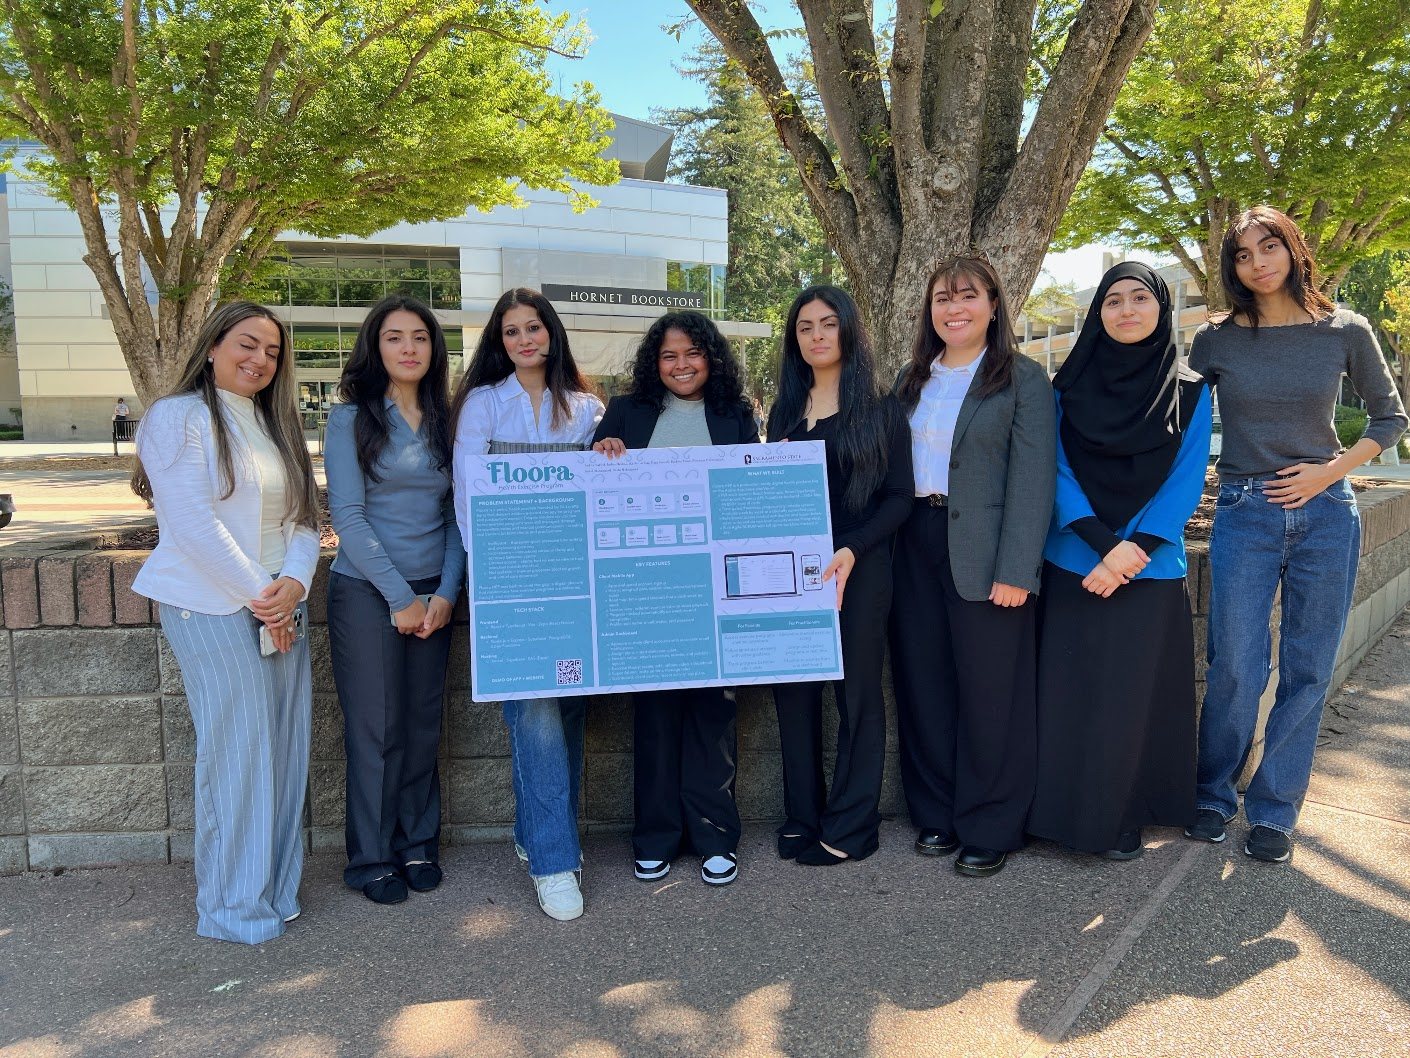
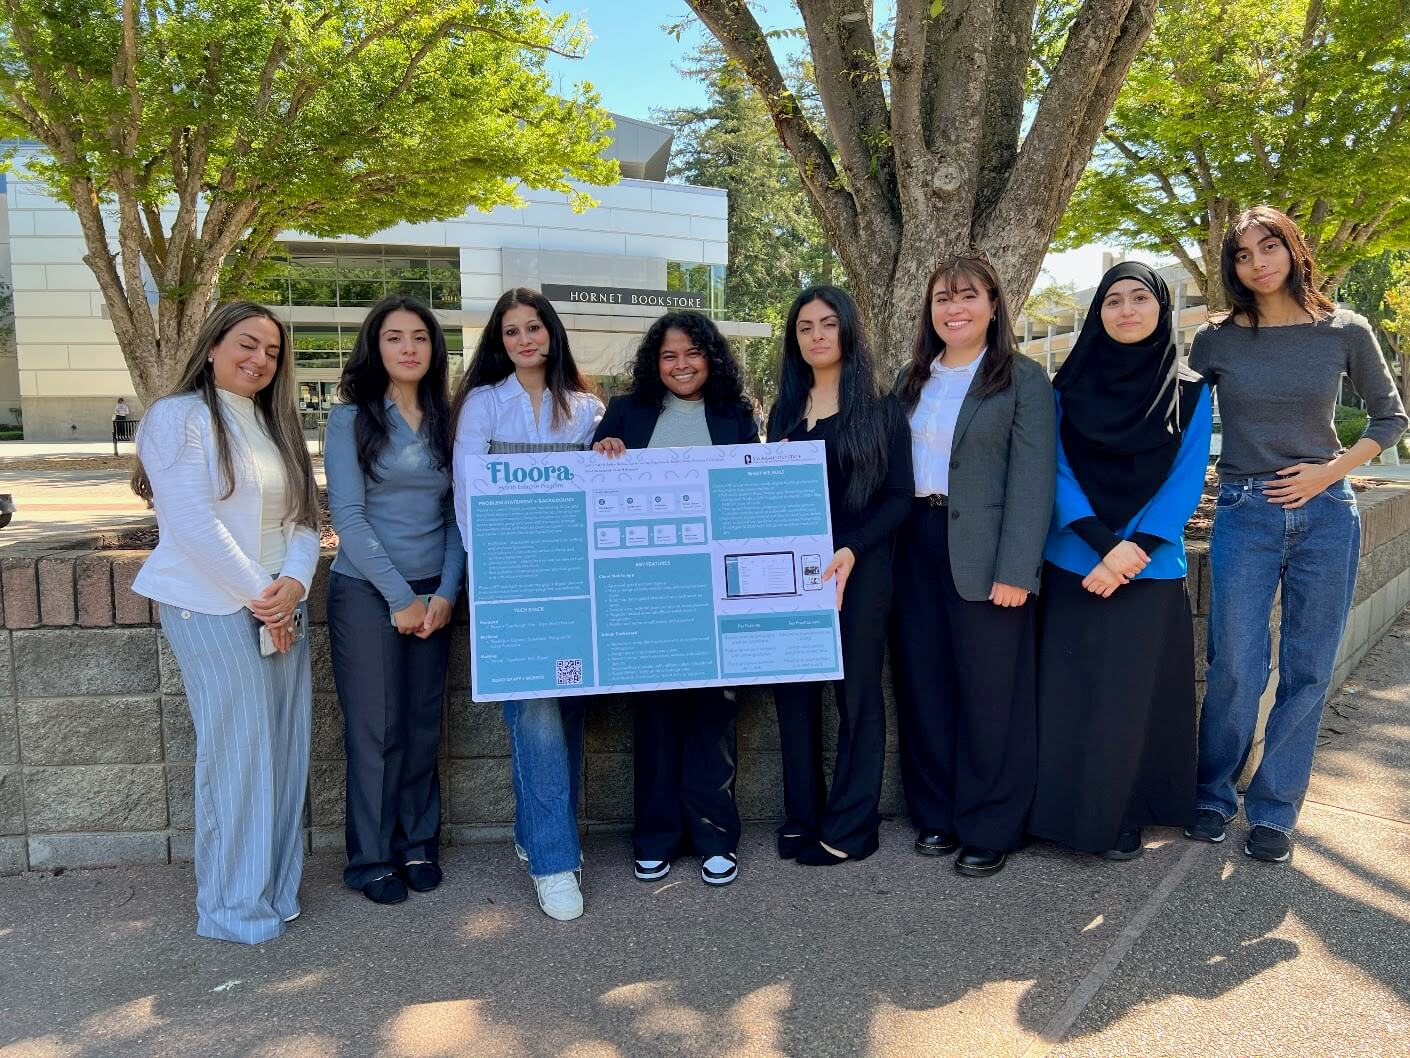
Decreased resolution of all images to decrease website load time

diff --git a/src/pages/Work.jsx b/src/pages/Work.jsx
@@ -9,9 +9,9 @@ const caseStudies = [
     tags: ['Accessibility', 'Hardware', 'Learning'],
     summary: 'A hardware-integrated braille learning platform for visually impaired children, pairing a 3D-printed device and Raspberry Pi with a Flask backend and a React frontend with audio feedback. Built in 48 hours by a team of 7 at Hornet Hacks 4.0, it won 1st Place in Open Innovation.',
     images: [
-      '/assets/senso-4.jpg',
+      '/assets/senso-4.png',
       '/assets/senso-1.png',
-      '/assets/senso-2.jpg',
+      '/assets/senso-2.png',
       '/assets/senso-3.JPG',
       '/assets/senso-5.png',
     ],

diff --git a/src/pages/Home.jsx b/src/pages/Home.jsx
@@ -56,7 +56,7 @@ export default function Home() {
           </div>
 
           <div className="hero-portrait">
-            <img src="/assets/headshot.jpg" alt="Kayla Garibay" />
+            <img src="/assets/headshot.png" alt="Kayla Garibay" />
           </div>
         </div>
       </section>
